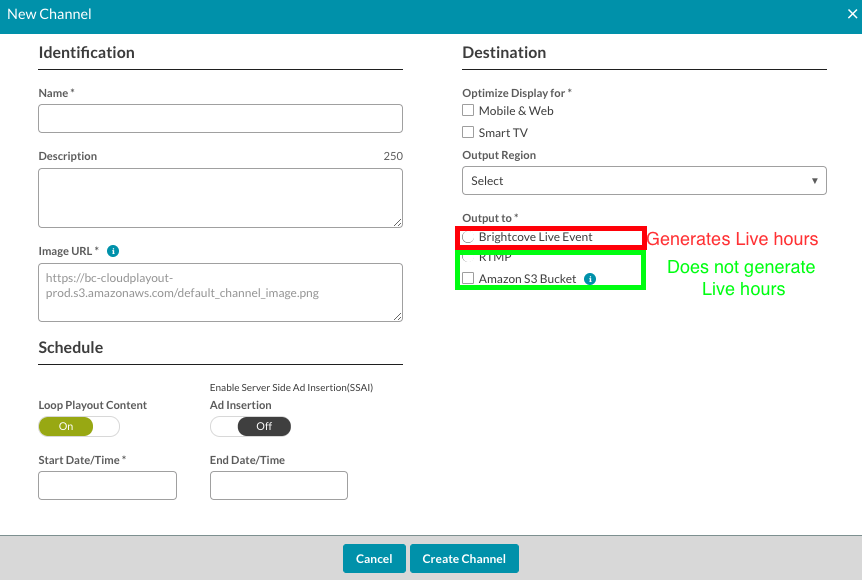
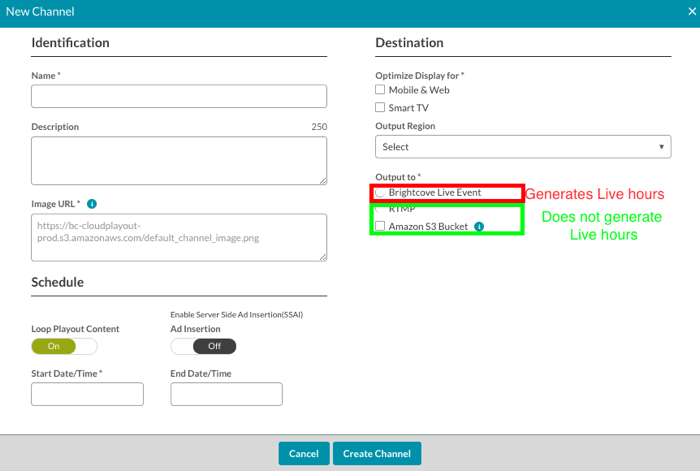
https://brightcove.atlassian.net/browse/KNOW-19816

Changed region(s): [[0.48, 0.9809, 0.6, 1.0], [0.0, 0.0297, 0.12, 0.0594], [0.42, 0.9809, 0.45, 1.0]]

diff --git a/_site/cloud-playout/cloud-playout-stream-vod.html b/_site/cloud-playout/cloud-playout-stream-vod.html
@@ -943,6 +943,12 @@ function doGTranslate(lang_pair) {if(lang_pair.value)lang_pair=lang_pair.value;i
               <li><strong>RTMP</strong> - Select to output the stream to an RTMP or RTP ingestion point. RTP is not available for third party ingestion points, only when <strong>Ad Insertion</strong> and <strong>Brightcove Live Event</strong> is enabled. When selected, an <strong>RTMP URL</strong> field will appear - enter the RTMP input URL for your live streaming service.</li>
               <li><strong>Amazon S3 Bucket </strong>- Select to push an HLS output to an Amazon S3 bucket. You will be required to enter Bucket Name, Region, Access Key and Secret Key. The bucket should be public and writeable.</li>
             </ul>
+            <aside class="bcls-aside bcls-aside--information language-editable">Note that outputting to <strong>Brightcove Live Event</strong> will automatically generate live hours for your account, which are billable. Outputting to RTMP or Amazon S3 do not generate billable live hours:
+              <figure class="bcls-figure">
+                <img class="bcls-image" src="/assets/images/general/cloud-playout-live-hours.png" alt="Billable/Non-Billable Outputs">
+                <figcaption class="bcls-caption--image">Billable/Non-Billable Outputs</figcaption>
+              </figure>
+            </aside>
           </li>
         </ul>
       </li>

diff --git a/cloud-playout/cloud-playout-stream-vod.html b/cloud-playout/cloud-playout-stream-vod.html
@@ -79,6 +79,12 @@ layout: staging
               <li><strong>RTMP</strong> - Select to output the stream to an RTMP or RTP ingestion point. RTP is not available for third party ingestion points, only when <strong>Ad Insertion</strong> and <strong>Brightcove Live Event</strong> is enabled. When selected, an <strong>RTMP URL</strong> field will appear - enter the RTMP input URL for your live streaming service.</li>
               <li><strong>Amazon S3 Bucket </strong>- Select to push an HLS output to an Amazon S3 bucket. You will be required to enter Bucket Name, Region, Access Key and Secret Key. The bucket should be public and writeable.</li>
             </ul>
+            <aside class="bcls-aside bcls-aside--information language-editable">Note that outputting to <strong>Brightcove Live Event</strong> will automatically generate live hours for your account, which are billable. Outputting to RTMP or Amazon S3 do not generate billable live hours:
+              <figure class="bcls-figure">
+                <img class="bcls-image" src="/assets/images/general/cloud-playout-live-hours.png" alt="Billable/Non-Billable Outputs">
+                <figcaption class="bcls-caption--image">Billable/Non-Billable Outputs</figcaption>
+              </figure>
+            </aside>
           </li>
         </ul>
       </li>
